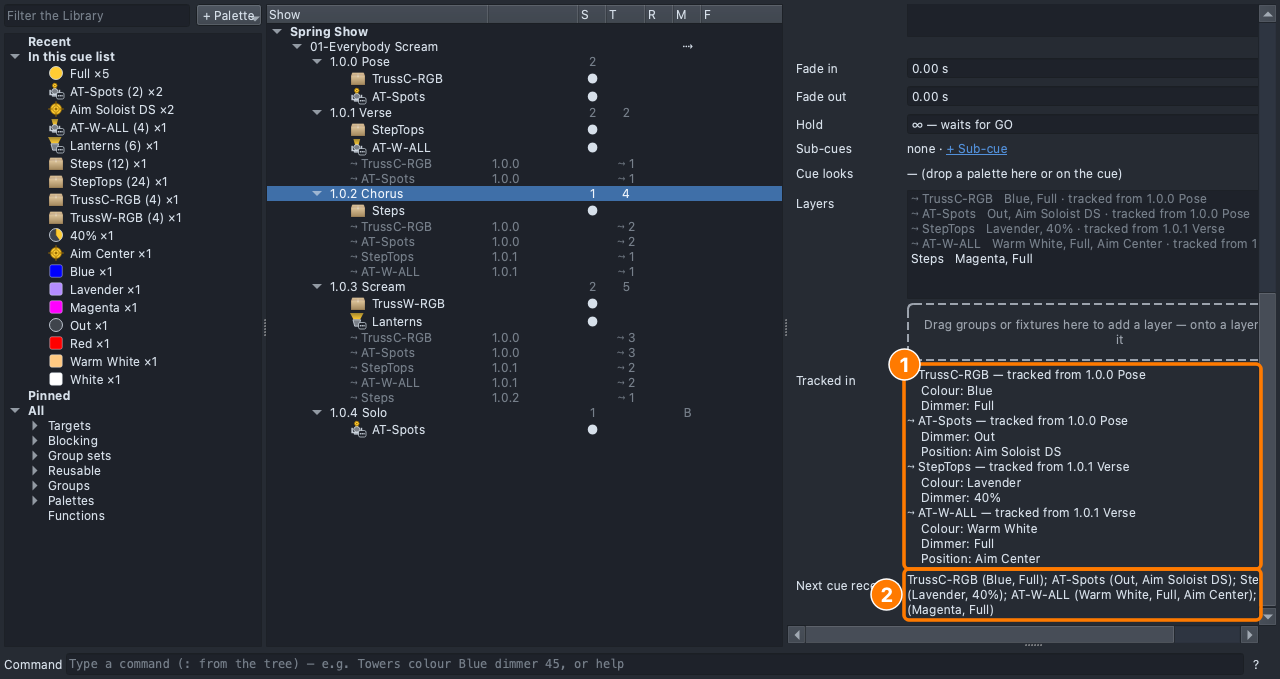
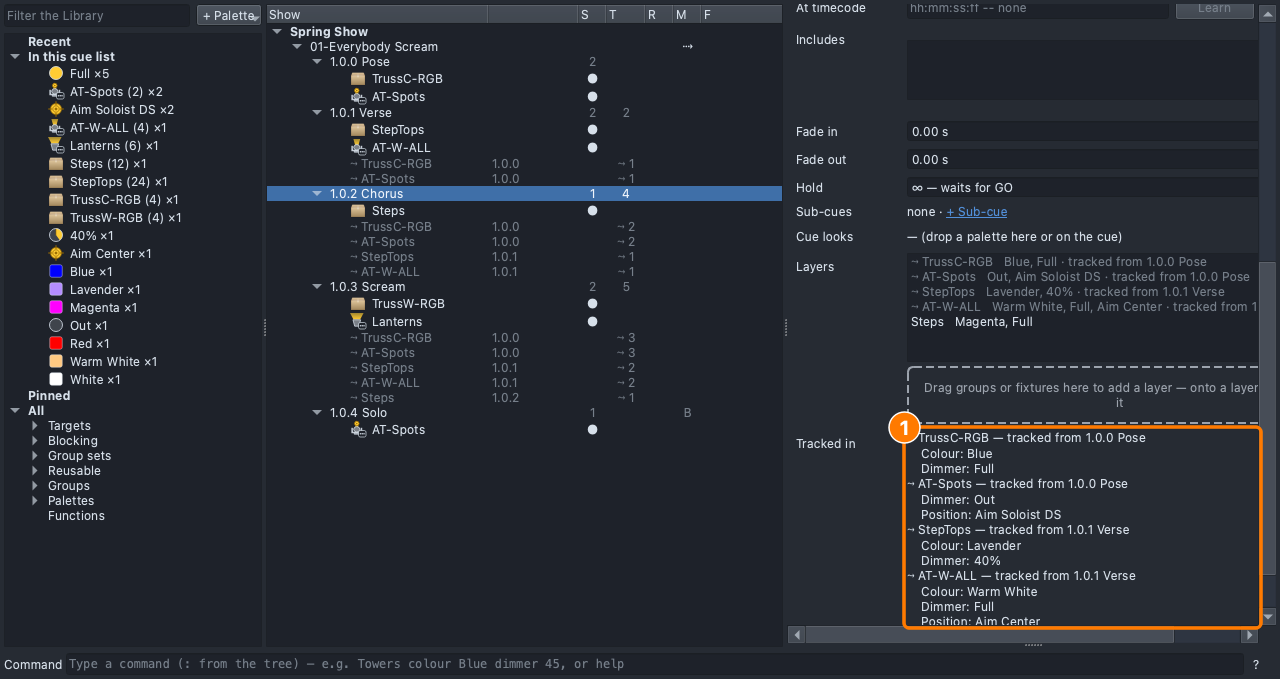
courseshow: chorus-receives in a wider window

diff --git a/ui/test/courseshow/courseshow_test.cpp b/ui/test/courseshow/courseshow_test.cpp
@@ -5938,10 +5938,11 @@ void CourseShow_Test::levelTwoPictures()
             f.callouts << c << markRect(rows->viewport(), grey, m_app, 2);
             QVERIFY(shoot(f, d, "chorus-tracking"));
             // Scrolled down: Tracked in and Next cue receives.
-            // A narrower tree, so the page is wide enough for the whole value.
-            if (QSplitter *split = stFind<QSplitter>(v, "stSplitter"))
-                split->setSizes(QList<int>() << 220 << 330 << split->width() - 550);
-            settle(100);
+            // A wider window, so the page holds the whole value.
+            const QSize was = m_app->size();
+            m_app->resize(was.width() + 260, was.height());
+            layOutForShot(v);
+            settle(200);
             if (QScrollArea *page = qobject_cast<QScrollArea *>(v->m_cuePage))
             {
                 page->ensureWidgetVisible(v->m_cueNext, 0, 8);
@@ -5954,6 +5955,8 @@ void CourseShow_Test::levelTwoPictures()
             g.crop = r;
             g.callouts << mark(v->m_cueTracked, 1, HelpShots::Corner) << mark(v->m_cueNext, 2, HelpShots::Corner);
             QVERIFY(shoot(g, d, "chorus-receives"));
+            m_app->resize(was);
+            settle(200);
             dc->resetModified();
         }
         QVERIFY(open(levelTwoStart(1)));
